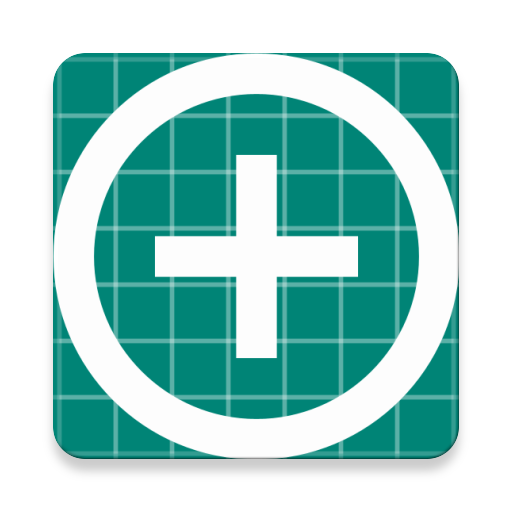
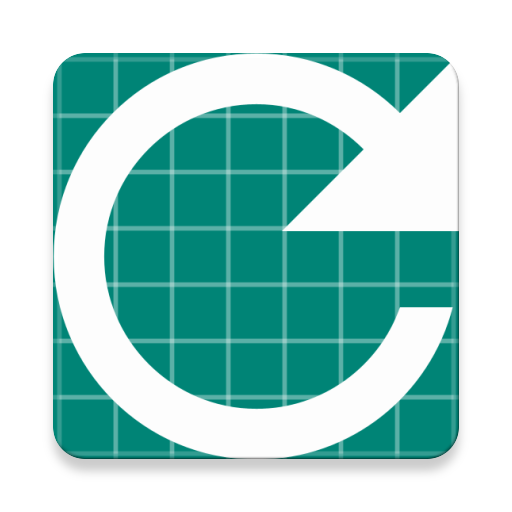
Added in refresh menu button to load in new posts.

Changed region(s): [[0.1562, 0.125, 0.9062, 0.8438]]

diff --git a/app/src/main/java/com/jandreasian/aroundme/homePage/HomePageFragment.kt b/app/src/main/java/com/jandreasian/aroundme/homePage/HomePageFragment.kt
@@ -75,6 +75,9 @@ class HomePageFragment : Fragment() {
         if (id == R.id.action_add) {
             checkPermissions()
         }
+        if (id == R.id.action_refresh) {
+            viewModel.getAllPosts()
+        }
 
         return super.onOptionsItemSelected(item)
     }
